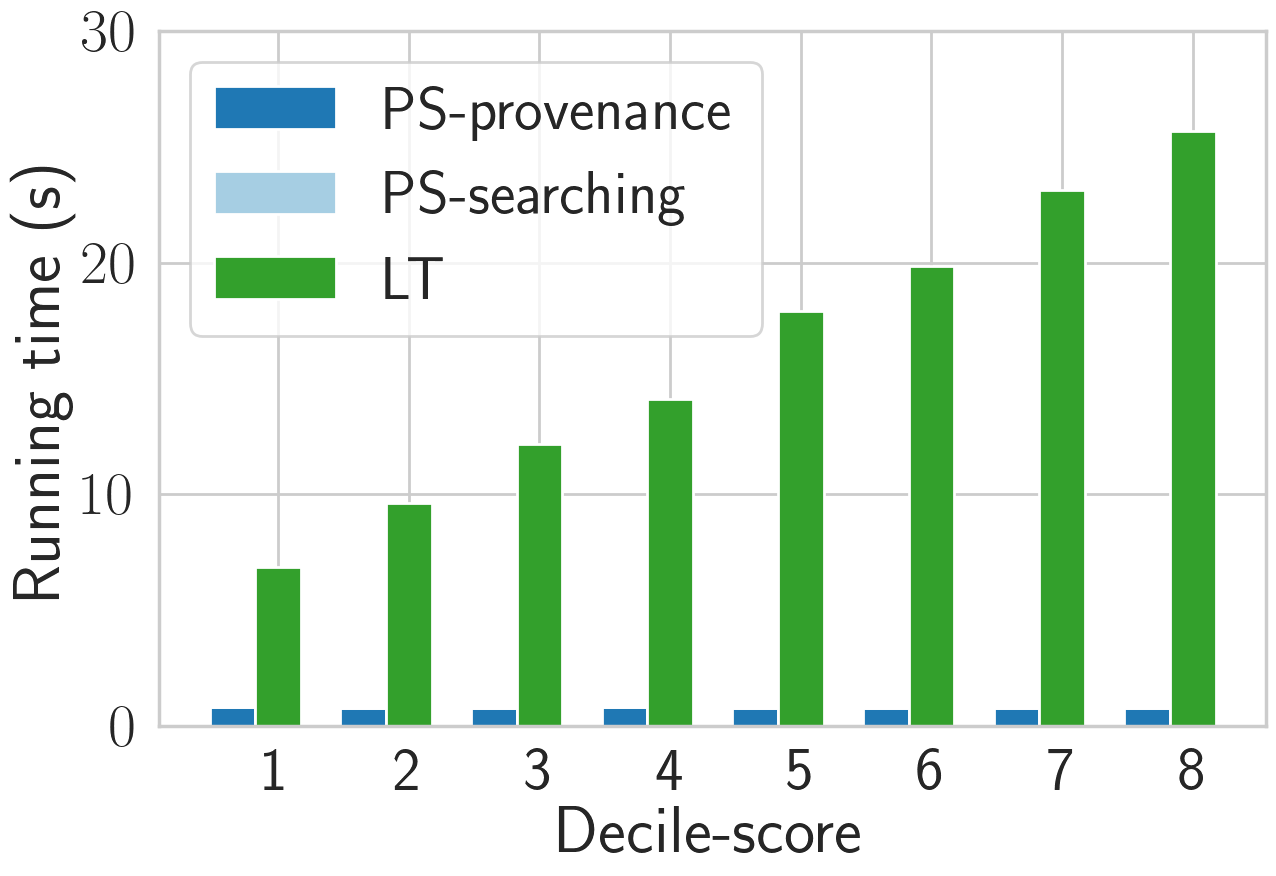
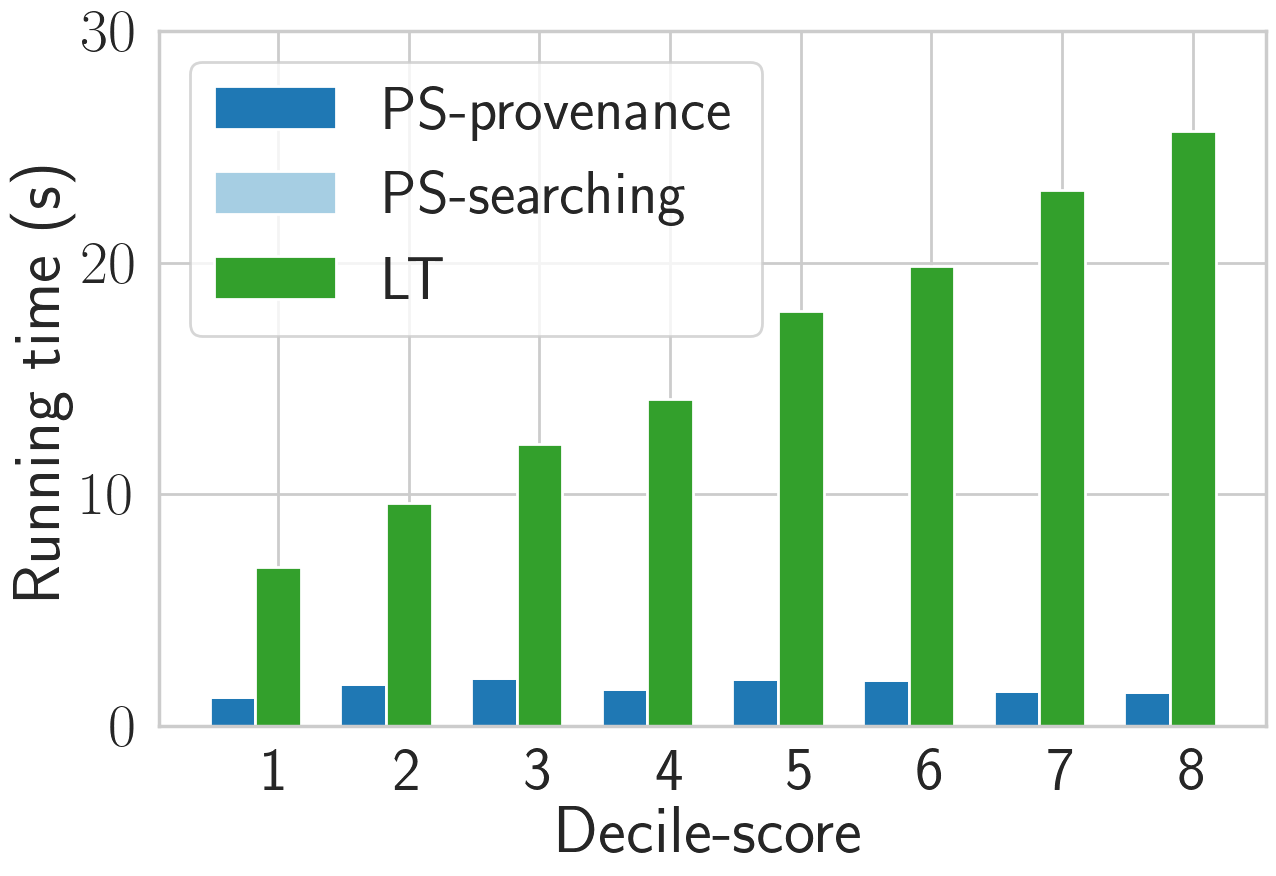
compas query change q1c1, q1c2

diff --git a/Experiment/compas/query_change_2/Q1C2_1/fig.py b/Experiment/compas/query_change_2/Q1C2_1/fig.py
@@ -67,6 +67,7 @@ plt.xticks(index + bar_width, x_list)
 plt.xlabel('Decile-score')
 plt.ylabel('Running time (s)')
 # plt.yticks([0, 10, 20, 30])
+# plt.yscale("log")
 plt.legend(loc='best')
 plt.tight_layout()
 plt.savefig("compas_query_change_q1c2.png", bbox_inches='tight')

diff --git a/Experiment/compas/query_change_2/Q1C1_1/fig.py b/Experiment/compas/query_change_2/Q1C1_1/fig.py
@@ -66,6 +66,7 @@ plt.xticks(index + bar_width, x_list)
 plt.xlabel('Decile-score')
 plt.ylabel('Running time (s)')
 plt.yticks([0, 10, 20, 30])
+# plt.yscale("log")
 plt.legend(loc='best')
 plt.tight_layout()
 plt.savefig("compas_query_change_q1c1.png", bbox_inches='tight')

diff --git a/Experiment/compas/query_change_2/Q1C1_1/query_change_q1c1.py b/Experiment/compas/query_change_2/Q1C1_1/query_change_q1c1.py
@@ -10,7 +10,7 @@ import time
 from intbitset import intbitset
 import json
 
-from Algorithm import ProvenanceSearchValues_6_20220825 as ps
+from Algorithm import ProvenanceSearchValues_7_20220827 as ps
 from Algorithm import LatticeTraversal_2_2022405 as lt
 
 

diff --git a/Experiment/compas/query_change_2/Q1C2_1/query_change_q1c2.py b/Experiment/compas/query_change_2/Q1C2_1/query_change_q1c2.py
@@ -11,7 +11,7 @@ from intbitset import intbitset
 import json
 
 
-from Algorithm import ProvenanceSearchValues_6_20220825 as ps
+from Algorithm import ProvenanceSearchValues_7_20220827 as ps
 from Algorithm import LatticeTraversal_2_2022405 as lt
 
 
